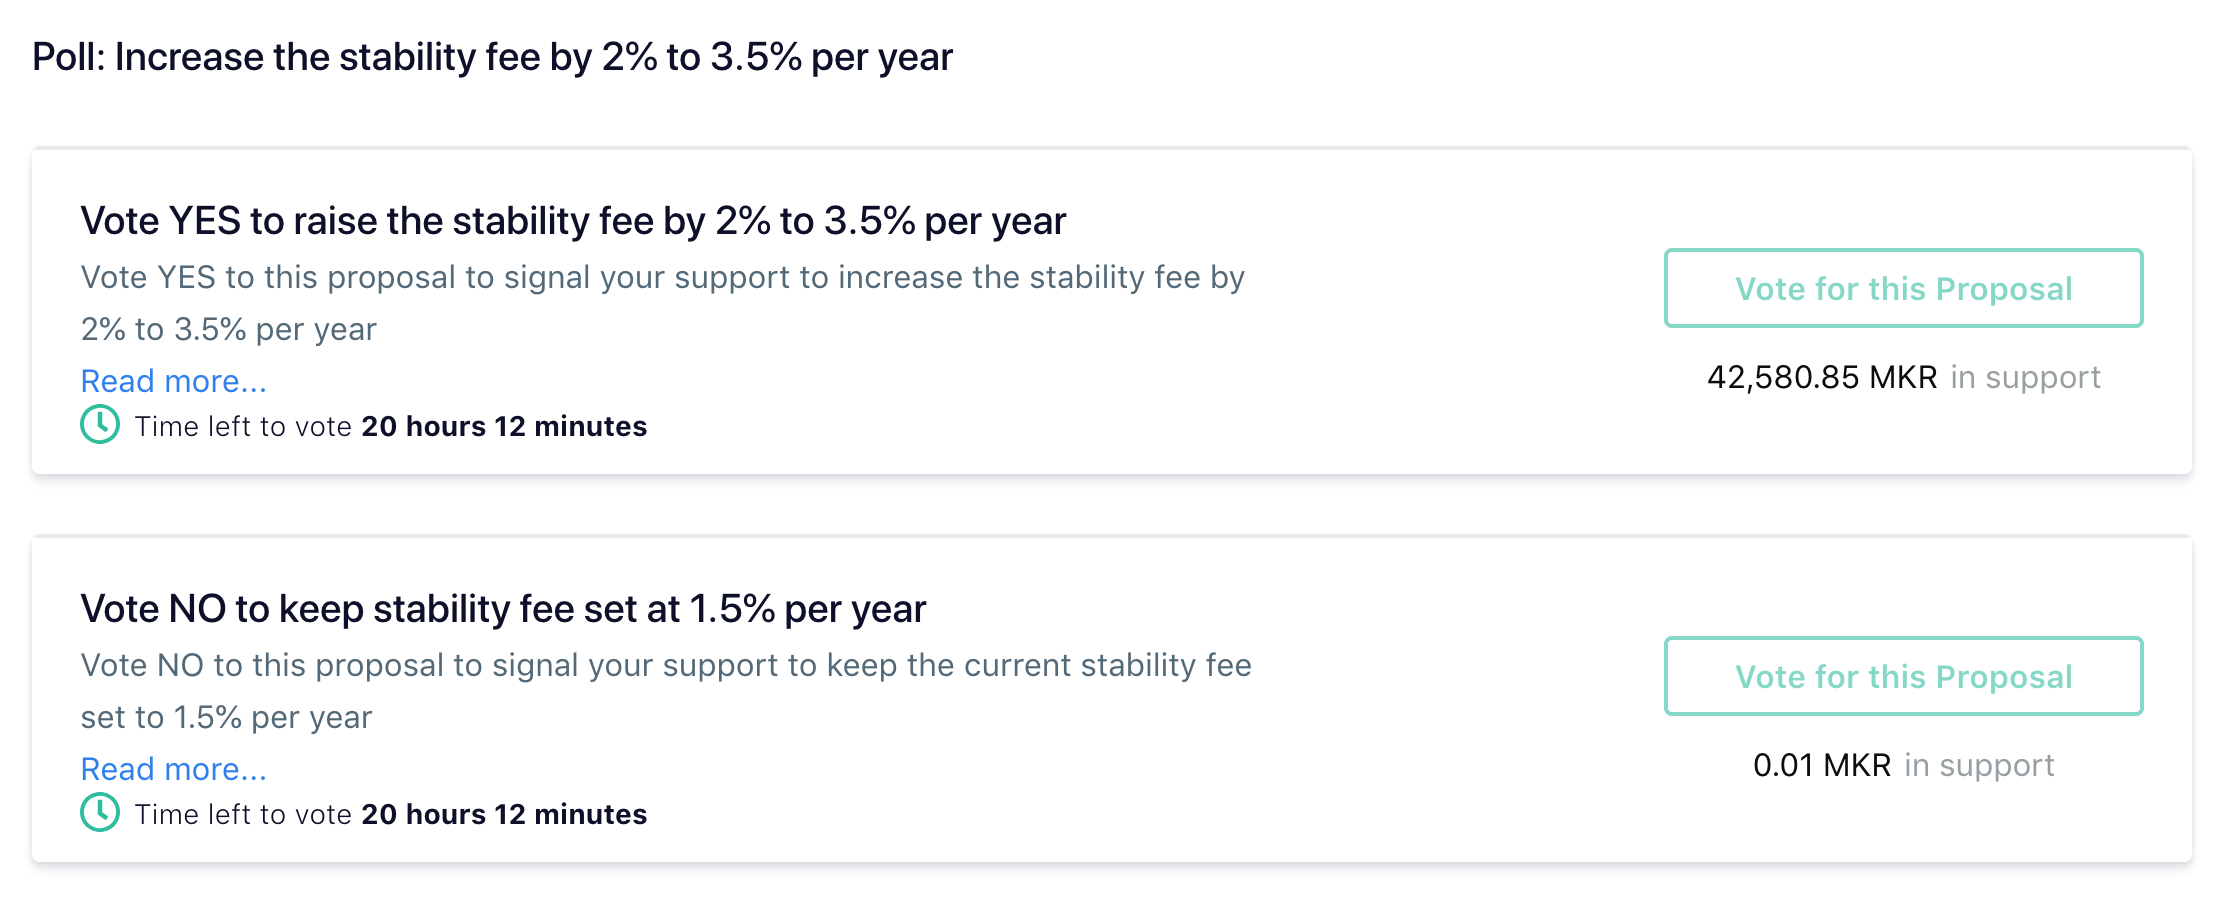
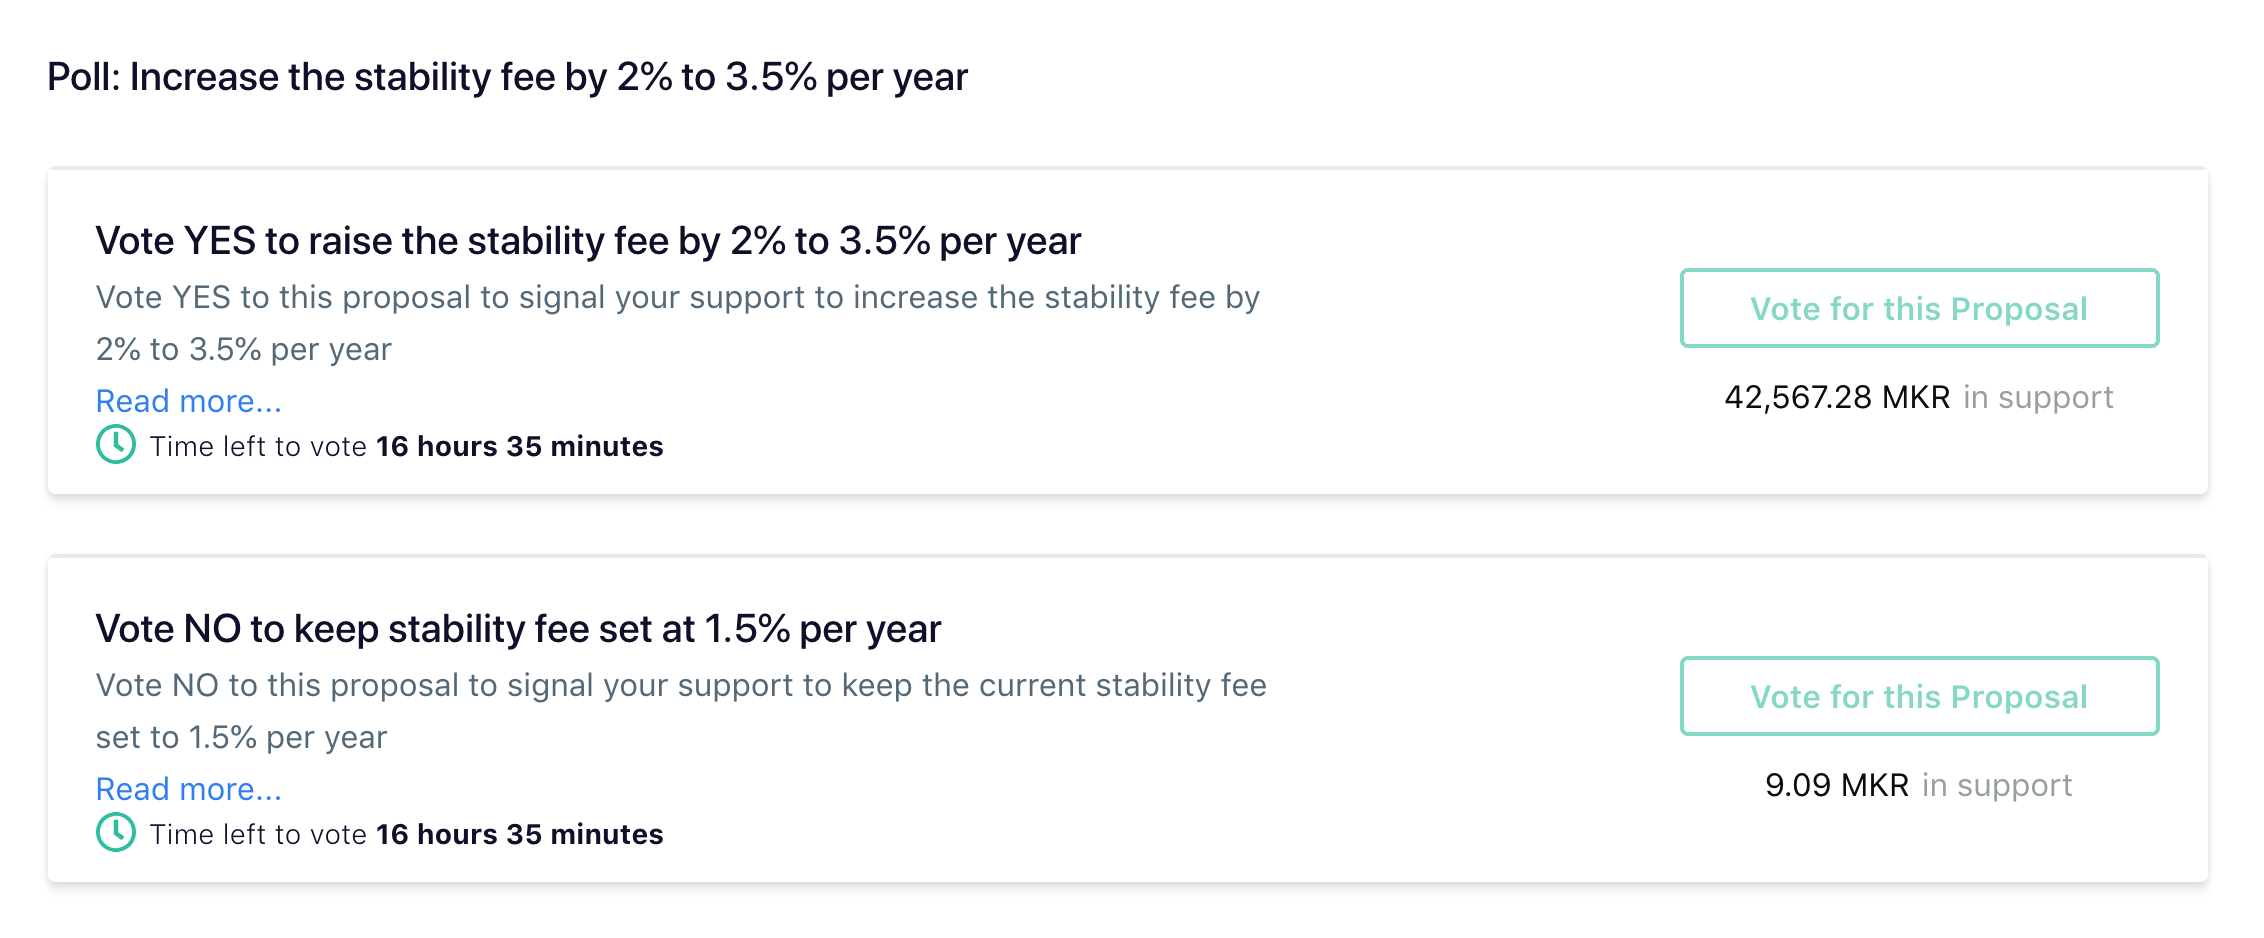
Updates screenshot and adds date/time for screenshot

diff --git a/significant-events/Maker.md b/significant-events/Maker.md
@@ -3,4 +3,6 @@ February saw MKR holders voting in two separate 0.5% increases in the Stability 
 
 ![Maker Governance Vote](../answers/img/maker/Maker_vote_screenshot.png )
 
+**Screenshot of Governance Vote Dashboard (3:25pm PST, 3/6/2019)**
+
 Decisions around Stability Fees and other issues discussed in Maker's governance and risk meetings are streamed live and later made available as YouTube videos, transcripts and meeting notes collected [here](https://github.com/atleastaverage/MakerDAO_minutes/blob/master/README.md).
